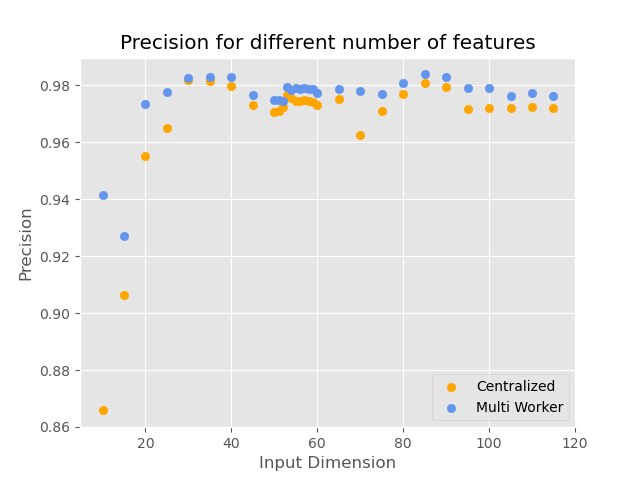
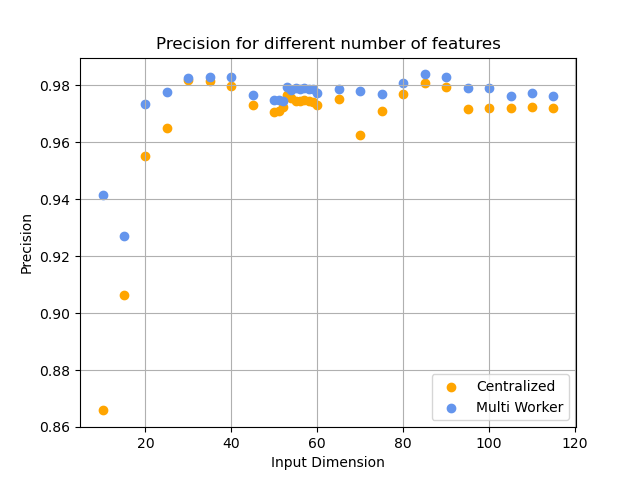
made a quick addjustment to the fig maker, figs are just to use default matplot style rather than ggplot

diff --git a/anomaly-detection/MatpltlibGen/figMaker.py b/anomaly-detection/MatpltlibGen/figMaker.py
@@ -84,7 +84,7 @@ multiF1 = [0.83657, 0.83704, 0.82353, 0.8279, .82832, 0.82839, 0.82283, 0.840597
 def precision_plt(plt):
     title = "Precision"
     precision = plt
-    precision.style.use("ggplot")
+    #precision.style.use("ggplot")
     precision.grid()
     precision.title(f"Centralized {title} for different number of features")
     precision.xlabel("Input Dimension")
@@ -130,9 +130,10 @@ def f1_plt(plt):
 
 # %%
 def accuracy_plt_multi(plt):
-    plt.style.use("ggplot")
+    plt.style.use("default")
     title = "Accuracy"
     acc = plt
+    acc.grid()
     acc.title(f"{title} for different number of features")
     acc.xlabel("Input Dimensions")
     acc.ylabel(f"{title}")
@@ -146,14 +147,15 @@ def accuracy_plt_multi(plt):
     acc.scatter(xlista, ylistmulti, c="cornflowerblue", label="Multi Worker")
     acc.legend(loc="best")
     acc.savefig(f"comparison_scatter_acc_e50_lr001_bs128.png")
-    print("cent accuracy")
+    print("Multi accuracy")
 
 
 # %%
 def precision_plt_multi(plt):
     title = "Precision"
     precision = plt
-    precision.style.use("ggplot")
+    precision.style.use("default")
+    precision.grid()
     precision.title(f"{title} for different number of features")
     precision.xlabel("Input Dimension")
     precision.ylabel(f"{title}")
@@ -173,7 +175,8 @@ def precision_plt_multi(plt):
 def recall_plt_multi(plt):
     title = "Recall"
     recall = plt
-    recall.style.use("ggplot")
+    recall.style.use("default")
+    recall.grid()
     recall.title(f"{title} for different number of features")
     recall.xlabel("Epochs")
     recall.ylabel(f"{title}")
@@ -194,7 +197,8 @@ def recall_plt_multi(plt):
 def f1_plt_multi(plt):
     title = "F-Measure"
     f1 = plt
-    f1.style.use("ggplot")
+    f1.style.use("default")
+    f1.grid()
     f1.title(f"{title} for different number of features")
     f1.xlabel("Epochs")
     f1.ylabel(f"{title}")
@@ -251,8 +255,8 @@ def main(argv):
     plt.style.use("ggplot")
 
     matplotlib.use("pdf")
-    #accuracy_plt_multi(plt)
-    f1_plt_multi(plt)
+    accuracy_plt_multi(plt)
+    #f1_plt_multi(plt)
     #recall_plt_multi(plt)
     #precision_plt_multi(plt)
     #pandas_dataframe_print(plt)
